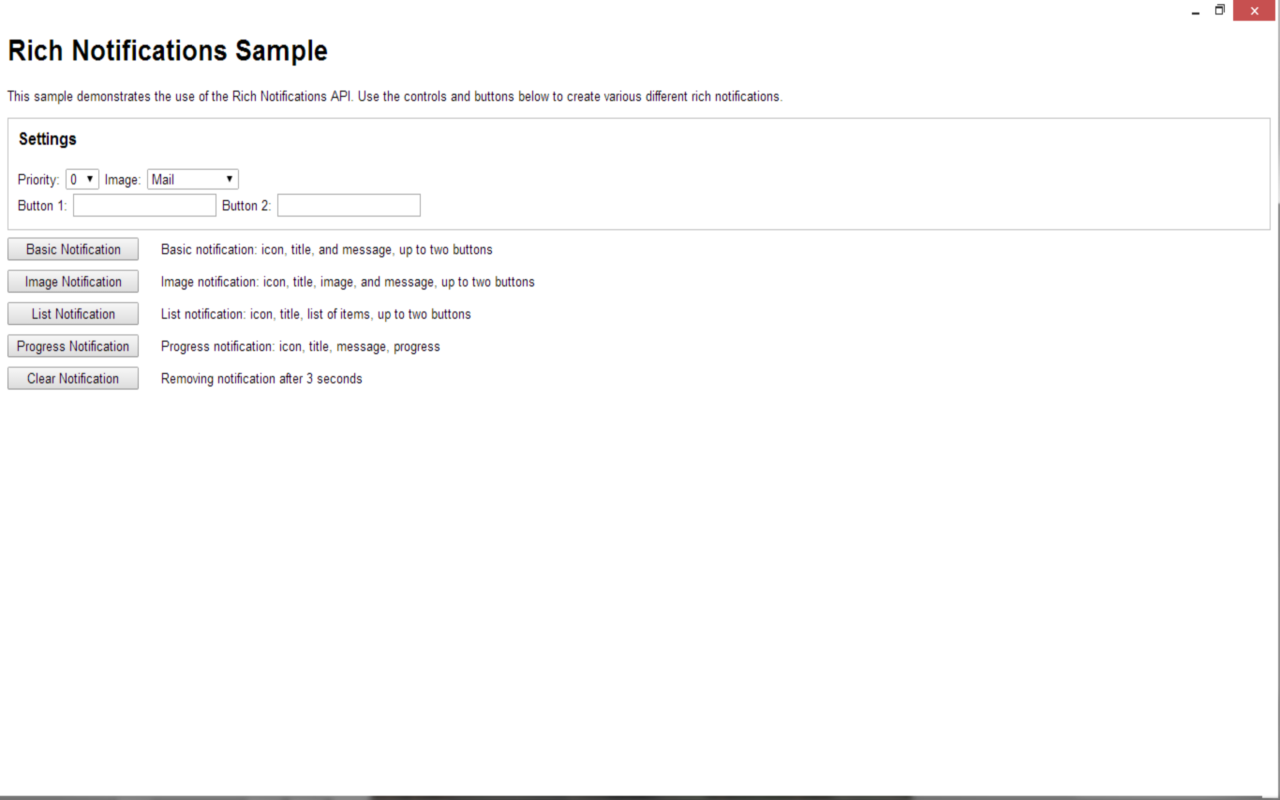
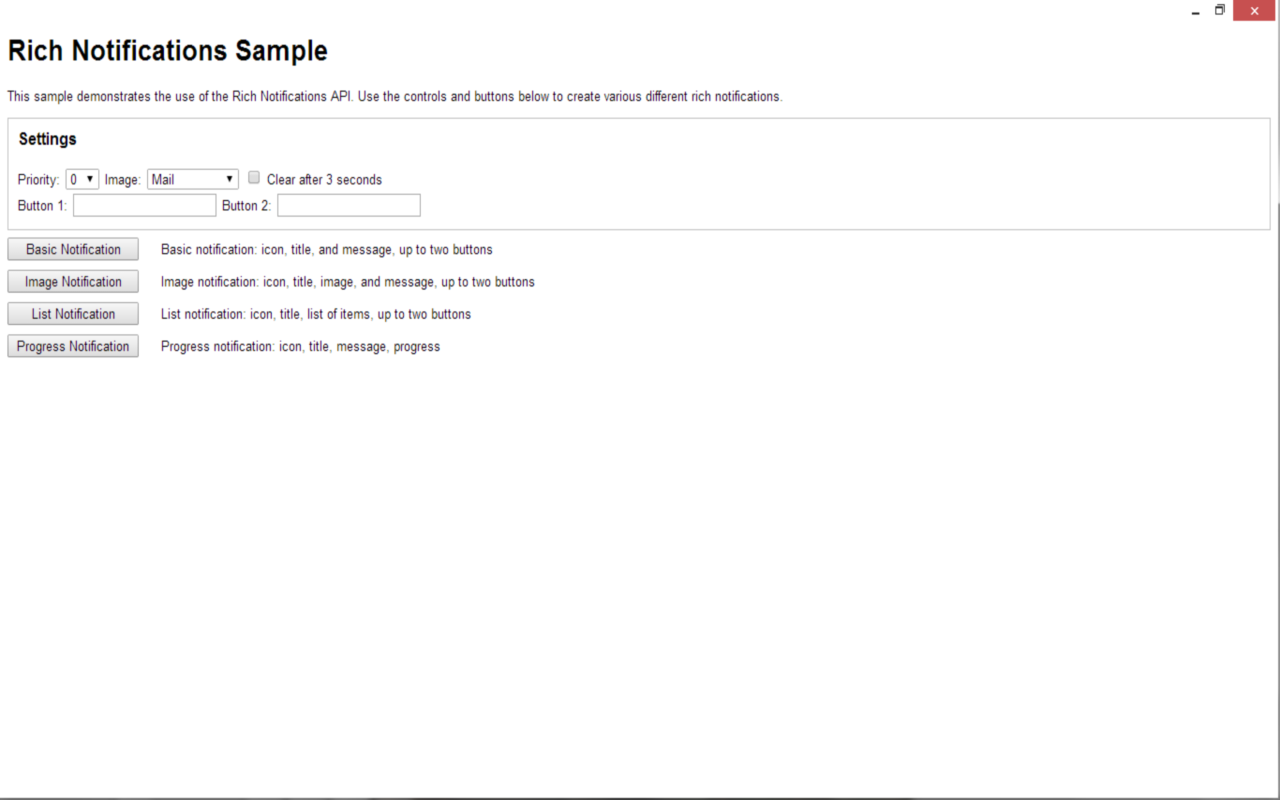
Added auto clear to all notification types

Changed region(s): [[0.0, 0.9688, 0.9688, 1.0], [0.0, 0.4375, 0.2812, 0.5], [0.1875, 0.2188, 0.3125, 0.25]]

diff --git a/rich-notifications/main.js b/rich-notifications/main.js
@@ -96,14 +96,18 @@ function doNotify(evt) {
 		options.buttons.push({ title: sBtn1 });
 	if (sBtn2.length)
 		options.buttons.push({ title: sBtn2 });
-
-	chrome.notifications.create("id"+notID++, options, creationCallback);		
+		
+	chrome.notifications.create("id"+notID++, options, creationCallback);
 }
 
 function creationCallback(notID) {
 	console.log("Succesfully created " + notID + " notification");
 	if(document.getElementById("clear").checked) {
-	  setTimeout(function() { chrome.notifications.clear(notID, function(wascleared){console.log("Notification cleared: "+wascleared)}) }, 3000);
+		setTimeout(function() {
+		  chrome.notifications.clear(notID, function(wasCleared) {
+			console.log("Notification " + notID + " cleared: " + wasCleared);
+		  });
+		}, 3000);
 	}
 }
 

diff --git a/rich-notifications/window.html b/rich-notifications/window.html
@@ -29,7 +29,8 @@
           <option>Africa</option>
           <option>Antarctica</option>
         </select>
-		<input type="checkbox" id="clear" value=1> Clear after 3 seconds
+	   <input id="clear" type="checkbox">
+	   <label for="clear">Clear after 3 seconds</label>
       </div>
       <div>
         <label for="btn1">Button 1: </label><input id="btn1" type="text">
